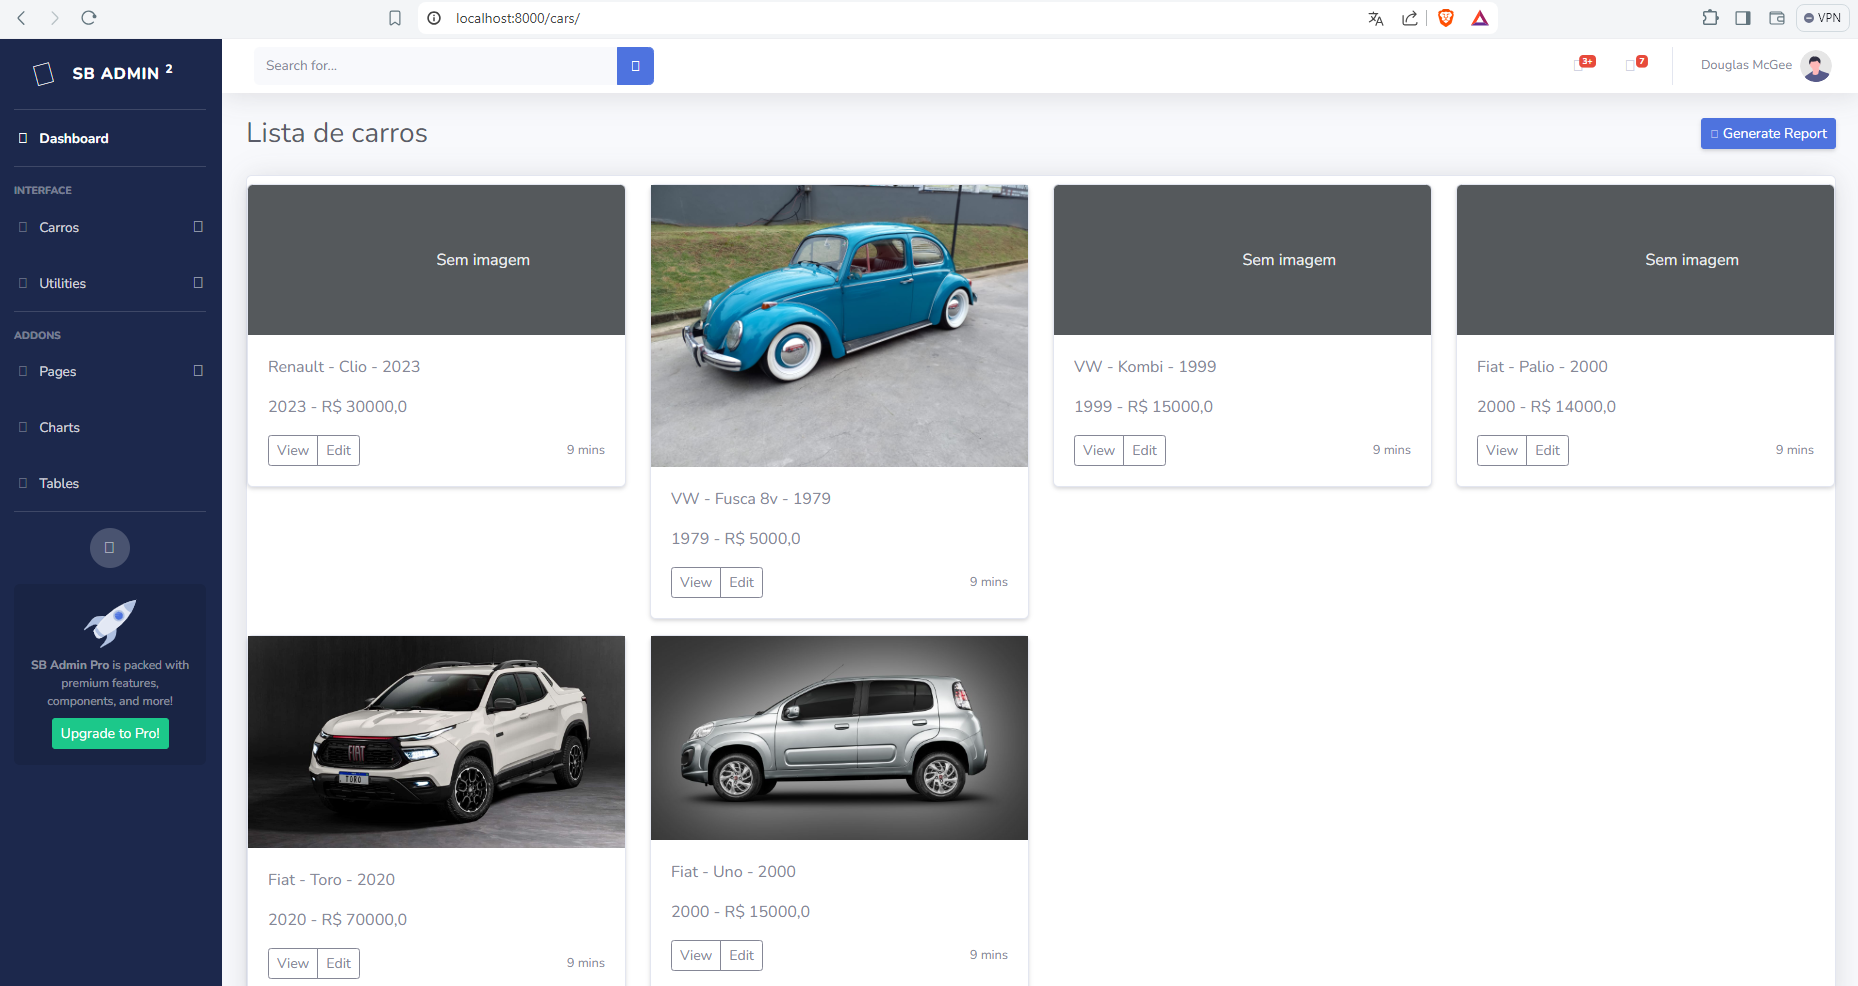
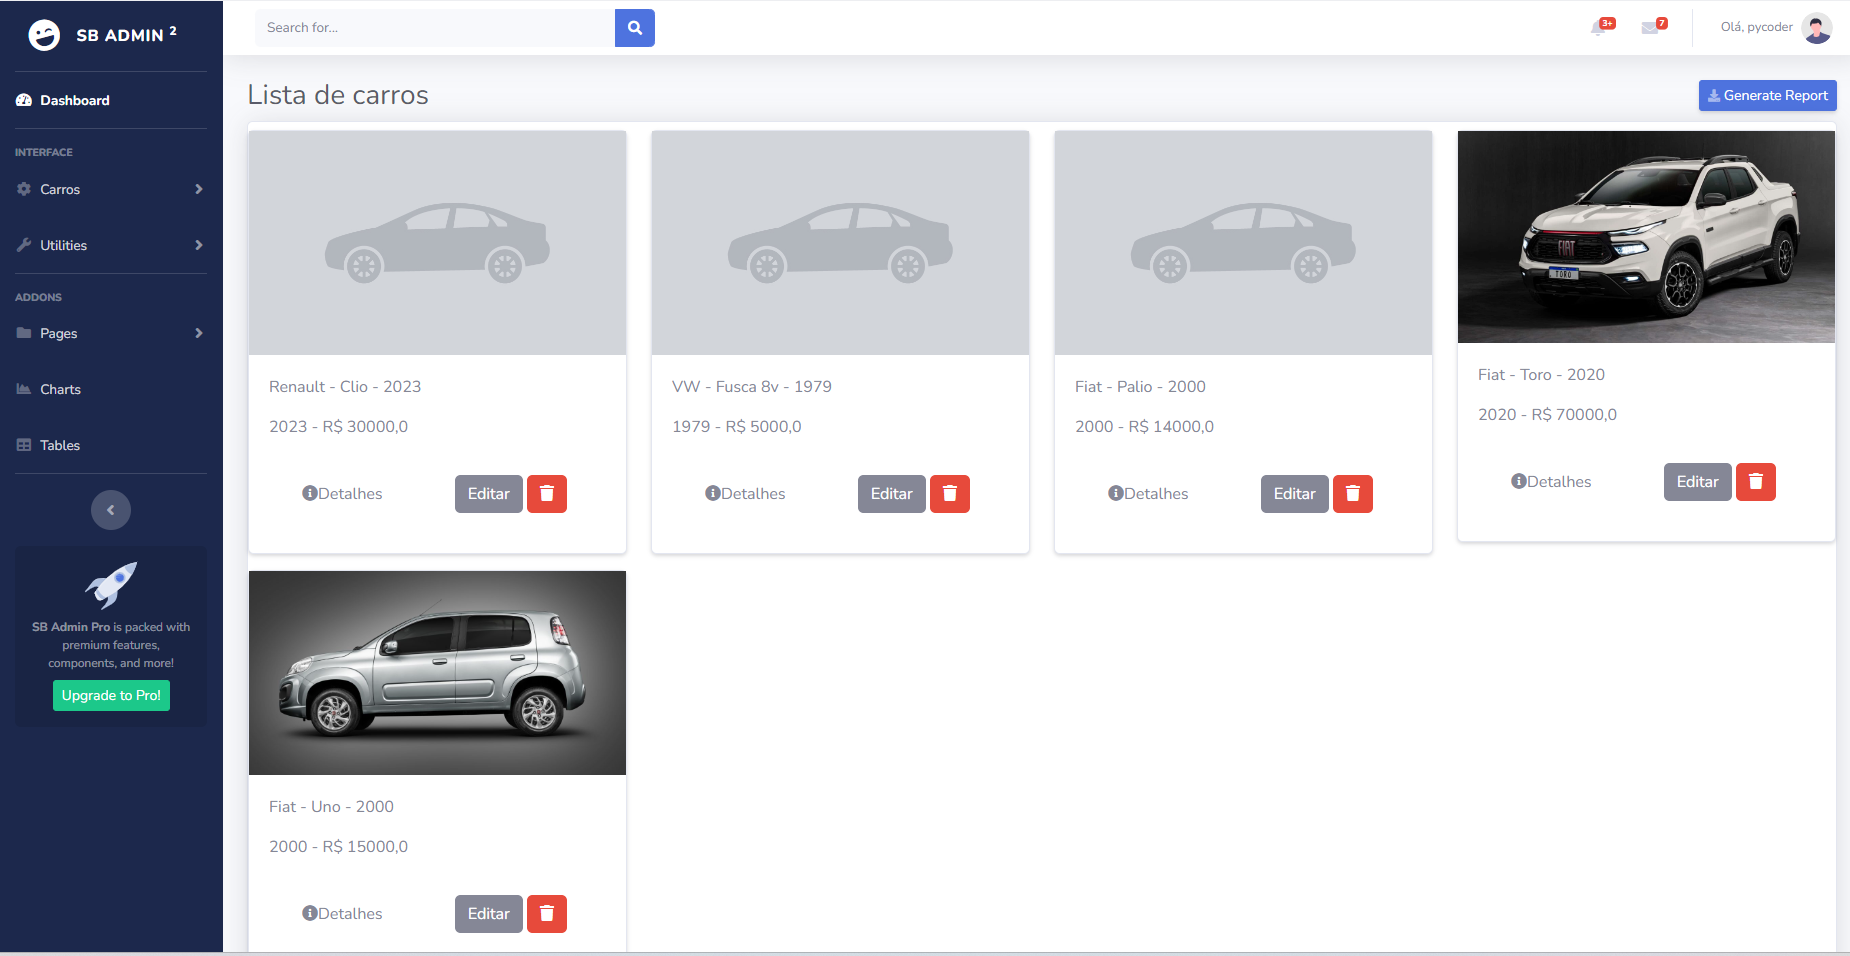
css

diff --git a/cars/templates/cars.html b/cars/templates/cars.html
@@ -24,18 +24,18 @@
                 <p class="card-text">{{ car.brand }} - {{ car.model }} - {{ car.factory_year }}</p>
                 <p>{{ car.model_year }} - R$ {{ car.value }}</p>
                 <div class="d-flex justify-content-between align-items-center">
-                    <div class="card-body">
-                      <a href="{% url 'car_detail' pk=car.pk %}" class="btn "><i class="fas fa-info-circle"></i>Detalhes</a>
-                    </div>
-                    <div class="card-body">
-                      <a href="{% url 'car_update' pk=car.pk %}" class="btn btn-sm btn-secondary">
-                        Editar
-                      </a>                      
-                      <a href="{% url 'car_delete' pk=car.pk %}" class="btn btn-danger">
-                        <i class="fas fa-trash"></i>
-                      </a>
-                    </div>
-                    
+                  <div class="card-body ">
+                    <a href="{% url 'car_detail' pk=car.pk %}" class="btn "><i class="fas fa-info-circle"></i>Detalhes</a>
+                  </div>
+                  <div class="card-body">
+                    <a href="{% url 'car_update' pk=car.pk %}" class="btn btn-secondary">
+                      Editar
+                    </a>                      
+                    <a href="{% url 'car_delete' pk=car.pk %}" class="btn btn-danger">
+                      <i class="fas fa-trash"></i>
+                    </a>
+                  </div>
+                  
                 </div>
               
             </div>

diff --git a/cars/templates/car_delete.html b/cars/templates/car_delete.html
@@ -1,5 +1,4 @@
 {% extends 'base.html' %}
-{% load bootstrap %}
 
 {% block search %}
 {% endblock%}
@@ -10,9 +9,9 @@
 
 {% block card %}
 <div class="col-md-5 ">
-    <div class="card shadow mb-4">
+    <div class="card shadow mb-4 p-1">
         <p>Tem certeza que deseja deletar o carro <strong>{{ object.brand }} {{ object.model }}</p>
-        <form>
+        <form method="post">
             {% csrf_token %}
             <div class="container-fluid p-3 mb-2 mt-2">
                 <button type="submit" class="btn btn-danger">Deletar Carro</button>

diff --git a/cars/templates/car_detail.html b/cars/templates/car_detail.html
@@ -25,6 +25,9 @@
                     <div class="small font-italic text-muted mb-4">JPG or PNG no larger than 5 MB</div>
                     <!-- Profile picture upload button-->
                     <button class="btn btn-primary" type="button">Upload new image</button>
+                    <a href="{% url 'car_update' pk=car.pk %}" class="btn btn-secondary">
+                      Editar
+                    </a>
                 </div>
             </div>
         </div>

diff --git a/cars/views.py b/cars/views.py
@@ -3,6 +3,7 @@ from django.db.models.base import Model as Model
 from django.db.models.query import QuerySet
 from django.shortcuts import render, redirect
 from django.views.generic import ListView, CreateView, DetailView, UpdateView, DeleteView
+from django.urls import reverse_lazy
 from cars.models import Car
 from cars.forms import CarModelForm
 
@@ -36,12 +37,13 @@ class CarUpdateView(UpdateView):
    model = Car
    form_class = CarModelForm
    template_name = 'car_update.html'
-   success_url = '/cars/'
 
+   def get_success_url(self):
+      return reverse_lazy('car_detail', kwargs={'pk': self.object.pk})
 
 class CarDeleteView(DeleteView):
    model = Car
    template_name = 'car_delete.html'
    success_url = '/cars/'
-   
+
    
